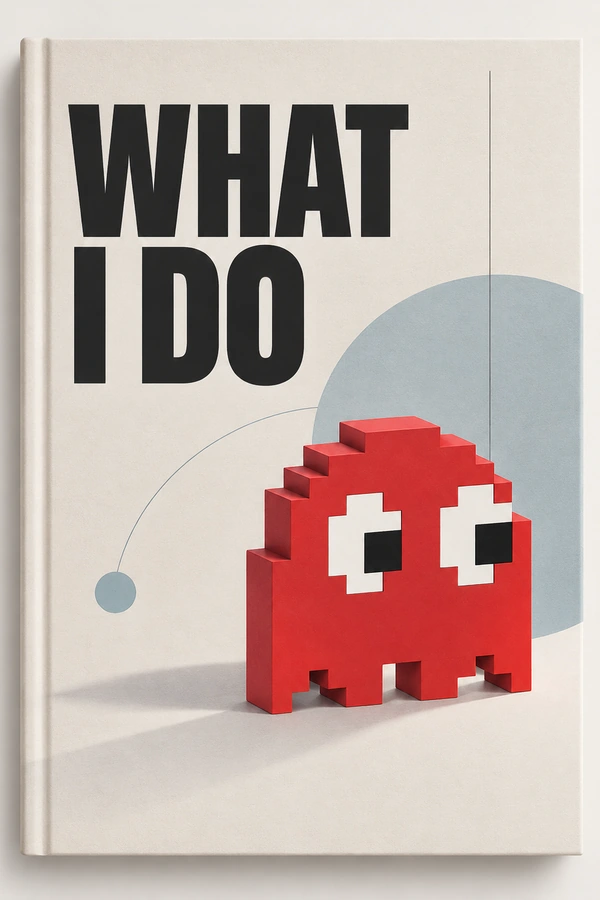
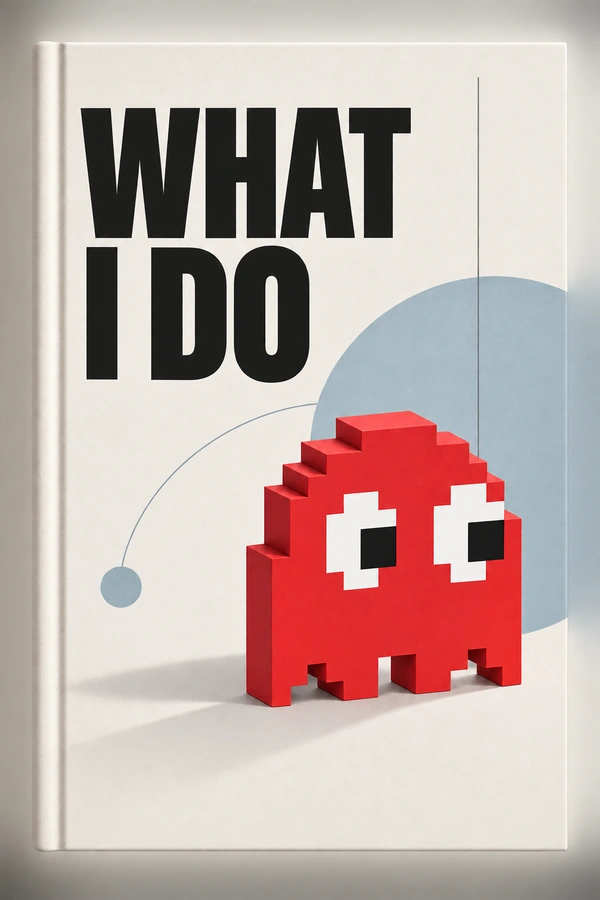
Replace What I Do guide and cover

diff --git a/WHAT-I-DO-final.html b/WHAT-I-DO-final.html
@@ -113,6 +113,114 @@ html[data-lang="en"] .cover-copy h2{font-weight:800;letter-spacing:-.07em}
 @media(max-width:1080px){.detail-grid{grid-template-columns:1fr 1fr}}
 @media(max-width:880px){.app{display:block} .sidebar{position:fixed;left:0;top:0;bottom:0;width:min(86vw,330px);transform:translateX(-104%);transition:.22s ease;box-shadow:18px 0 50px rgba(0,0,0,.2)} .sidebar.open{transform:none} .mobile-overlay.open{display:block} .mobile-menu{display:grid} .topbar{padding:0 14px} .content{padding:22px 16px 55px} .hero{border-radius:22px;padding:30px 24px} .two-worlds,.overview-grid,.detail-grid{grid-template-columns:1fr} .overview-head{align-items:start;flex-direction:column}}
 @media print{.sidebar,.topbar,.search-panel,.mobile-overlay{display:none!important} .app{display:block} .content{max-width:none;padding:0} .page-section{display:block!important;page-break-after:always}}
+
+/* ===== Responsive hardening ===== */
+html, body { width:100%; max-width:100%; overflow-x:hidden; }
+img, svg, video, canvas { max-width:100%; }
+button, input { min-width:0; }
+.main, .content, .page-section, .detail-card, .overview-card, .cover-copy { min-width:0; }
+.page-section h2, .overview-card h3, .detail-card h3, .nav-item strong, .nav-item small,
+.section-lead, .cover-copy .intro, .reason, .world-card p { overflow-wrap:anywhere; word-break:normal; }
+
+@media (max-width:1100px) and (min-width:881px) {
+  .app{grid-template-columns:280px minmax(0,1fr)}
+  .cover-hero{grid-template-columns:minmax(250px,340px) minmax(0,1fr);gap:30px;padding:28px}
+  .cover-copy h2{font-size:clamp(3rem,6vw,5rem)}
+  .content{padding-left:28px;padding-right:28px}
+}
+
+@media (max-width:880px) {
+  body{overflow-x:hidden}
+  .app{display:block;width:100%;max-width:100vw}
+  .main{width:100%;max-width:100vw;overflow:hidden}
+  .sidebar{
+    position:fixed;inset:0 auto 0 0;
+    width:min(88vw,320px);height:100dvh;
+    transform:translateX(-105%);transition:transform .22s ease;
+    box-shadow:18px 0 50px rgba(0,0,0,.24);z-index:60;
+  }
+  .sidebar.open{transform:translateX(0)}
+  .mobile-overlay{z-index:55}
+  .mobile-overlay.open{display:block}
+  .mobile-menu{display:grid}
+  .topbar{
+    height:58px;padding:0 10px;gap:8px;width:100%;max-width:100vw;
+  }
+  .top-left{flex:0 0 auto;min-width:0}
+  .crumb{display:none}
+  .toolbar{margin-left:auto;gap:4px;min-width:0}
+  .tool,.mobile-menu,.lang-toggle{width:36px;height:36px;border-radius:10px;flex:0 0 36px}
+  .lang-toggle{min-width:36px!important;width:36px!important;padding:0!important;font-size:1.08rem}
+  .content{width:100%;max-width:100vw;padding:16px 12px 44px;margin:0}
+  .cover-hero{
+    min-height:0;display:grid;grid-template-columns:1fr;gap:22px;
+    padding:14px;border-radius:20px;overflow:hidden;
+  }
+  .cover-art{width:min(100%,420px);max-width:420px;margin:0 auto;border-radius:12px}
+  .cover-art img{width:100%;height:auto;display:block}
+  .cover-copy{padding:2px 4px 8px;min-width:0}
+  .cover-copy h2{font-size:clamp(2.75rem,15vw,4.7rem);line-height:.92;margin:6px 0 18px}
+  html[data-lang='en'] .cover-copy h2{font-size:clamp(2.65rem,14vw,4.5rem)}
+  .cover-copy .intro{font-size:.98rem;line-height:1.65}
+  .reason{margin-top:18px;padding:15px 16px;font-size:.94rem}
+  .cover-caption{flex-wrap:wrap;gap:8px;margin-top:18px}
+  .cover-caption-line{width:32px}
+  .two-worlds{grid-template-columns:1fr;gap:10px;margin-top:12px}
+  .world-card{padding:16px;border-radius:16px}
+  .overview-section{margin-top:30px}
+  .overview-head{align-items:flex-start;flex-direction:column;gap:8px;margin-bottom:12px}
+  .overview-head h3{font-size:1.35rem}
+  .overview-head p{font-size:.84rem}
+  .overview-grid{grid-template-columns:1fr;gap:9px}
+  .overview-card{grid-template-columns:36px minmax(0,1fr) 16px;gap:10px;padding:14px;border-radius:16px}
+  .overview-num{width:34px;height:34px}
+  .overview-card h3{font-size:.94rem}
+  .overview-card p{font-size:.78rem;line-height:1.5}
+  .section-topline{align-items:flex-start}
+  .page-section>h2{font-size:clamp(2rem,10vw,3.2rem);line-height:1.08;margin-top:10px}
+  html[data-lang='en'] .page-section>h2{font-size:clamp(1.9rem,9.5vw,3rem)}
+  .section-en{font-size:.82rem}
+  .section-lead{font-size:1rem;margin:18px 0 20px;padding-bottom:18px}
+  .detail-grid{grid-template-columns:1fr;gap:10px}
+  .detail-card{padding:17px;border-radius:16px}
+  .detail-card h3{font-size:1rem}
+  .detail-card li{font-size:.87rem}
+  .search-panel{padding:70px 10px 20px;align-items:flex-start}
+  .search-box{width:100%;max-width:100%;border-radius:16px}
+  .search-row{padding:10px;gap:6px}
+  .search-row input{font-size:16px;min-width:0}
+  .cover-lightbox{padding:12px}
+  .cover-lightbox img{max-width:94vw;max-height:90dvh;height:auto}
+}
+
+@media (max-width:430px) {
+  .topbar{padding:0 8px}
+  .toolbar{gap:3px}
+  .tool,.mobile-menu,.lang-toggle{width:34px;height:34px;flex-basis:34px;border-radius:9px}
+  .lang-toggle{min-width:34px!important;width:34px!important;font-size:1rem}
+  .content{padding:12px 10px 38px}
+  .cover-hero{padding:10px;gap:18px;border-radius:17px}
+  .cover-copy{padding:0 3px 6px}
+  .cover-copy h2{font-size:clamp(2.55rem,16vw,4rem)}
+  html[data-lang='en'] .cover-copy h2{font-size:clamp(2.45rem,15vw,3.8rem)}
+  .brand-kicker,.micro{letter-spacing:.1em}
+  .reason{padding:13px 14px}
+  .overview-card{padding:13px 12px}
+  .page-section>h2{font-size:clamp(1.85rem,10.5vw,2.75rem)}
+  .type-badge{font-size:.64rem;padding:4px 7px}
+}
+
+@media (max-width:360px) {
+  .toolbar{gap:2px}
+  .tool,.mobile-menu,.lang-toggle{width:32px;height:32px;flex-basis:32px;font-size:.82rem}
+  .lang-toggle{min-width:32px!important;width:32px!important;font-size:.95rem}
+  .content{padding-left:8px;padding-right:8px}
+  .cover-hero{padding:8px}
+  .cover-copy h2{font-size:2.7rem}
+  .overview-card{grid-template-columns:32px minmax(0,1fr) 12px;gap:8px}
+  .overview-num{width:30px;height:30px}
+}
+
 </style>
 </head>
 <body>

diff --git a/tests/test_what_i_do_reading.py b/tests/test_what_i_do_reading.py
@@ -11,8 +11,8 @@ ROOT = Path(__file__).resolve().parents[1]
 BOOK_ID = "what-i-do"
 HTML_PATH = ROOT / "WHAT-I-DO-final.html"
 COVER_PATH = ROOT / "assets" / "covers" / "custom" / f"{BOOK_ID}.webp"
[4 lines of base64/hex data omitted]
 PROHIBITED_PUBLIC_RE = re.compile(
     "|".join(
         [
@@ -112,7 +112,8 @@ class WhatIDoReadingTests(unittest.TestCase):
         template_text = template.read_text(encoding="utf-8")
         self.assertIn(COVER_SOURCE_SHA256, template_text)
         self.assertIn("owner-supplied", template_text)
-        self.assertIn("no added white padding", template_text)
+        self.assertIn("no padding", template_text)
+        self.assertIn("no added white border", template_text)
 
 
 if __name__ == "__main__":

diff --git a/templates/what-i-do-cover.template.md b/templates/what-i-do-cover.template.md
@@ -1,8 +1,7 @@
 # WHAT I DO owner-supplied cover normalization
 
-- Source: project-owner supplied PNG cover attachment.
-- Source SHA-256: 4c2192a83b4162ba169bc99046c00a7ecd7f828976024e3c06b6acb123a5714c
+- Source: project-owner supplied replacement PNG cover attachment.
+- Source SHA-256: 564754b2107b58f864b14bf429fea22e29104f66116cdc985193c7ee33084014
 - Normalized asset: `assets/covers/custom/what-i-do.webp`
-- Normalization: converted RGB PNG to EXIF-free RGB WebP; scaled to full-height 600×900 and center-cropped only the narrow horizontal excess so the shelf cover has no added white padding/border. No text edit, recolor, retouch, or redesign.
-- Reason for crop: the source aspect ratio is slightly wider than 2:3; fill/crop makes the card read as a real book cover on the shelf instead of a contained poster with white margins.
+- Normalization: converted RGBA PNG to EXIF-free RGB WebP and resized from 1024×1536 to 600×900. The supplied artwork is already exactly 2:3, so no crop, no padding, and no added white border were used. No text edit, recolor, retouch, or redesign.
 - Visibility: public-safe; do not include local cache paths in public catalog/docs.
